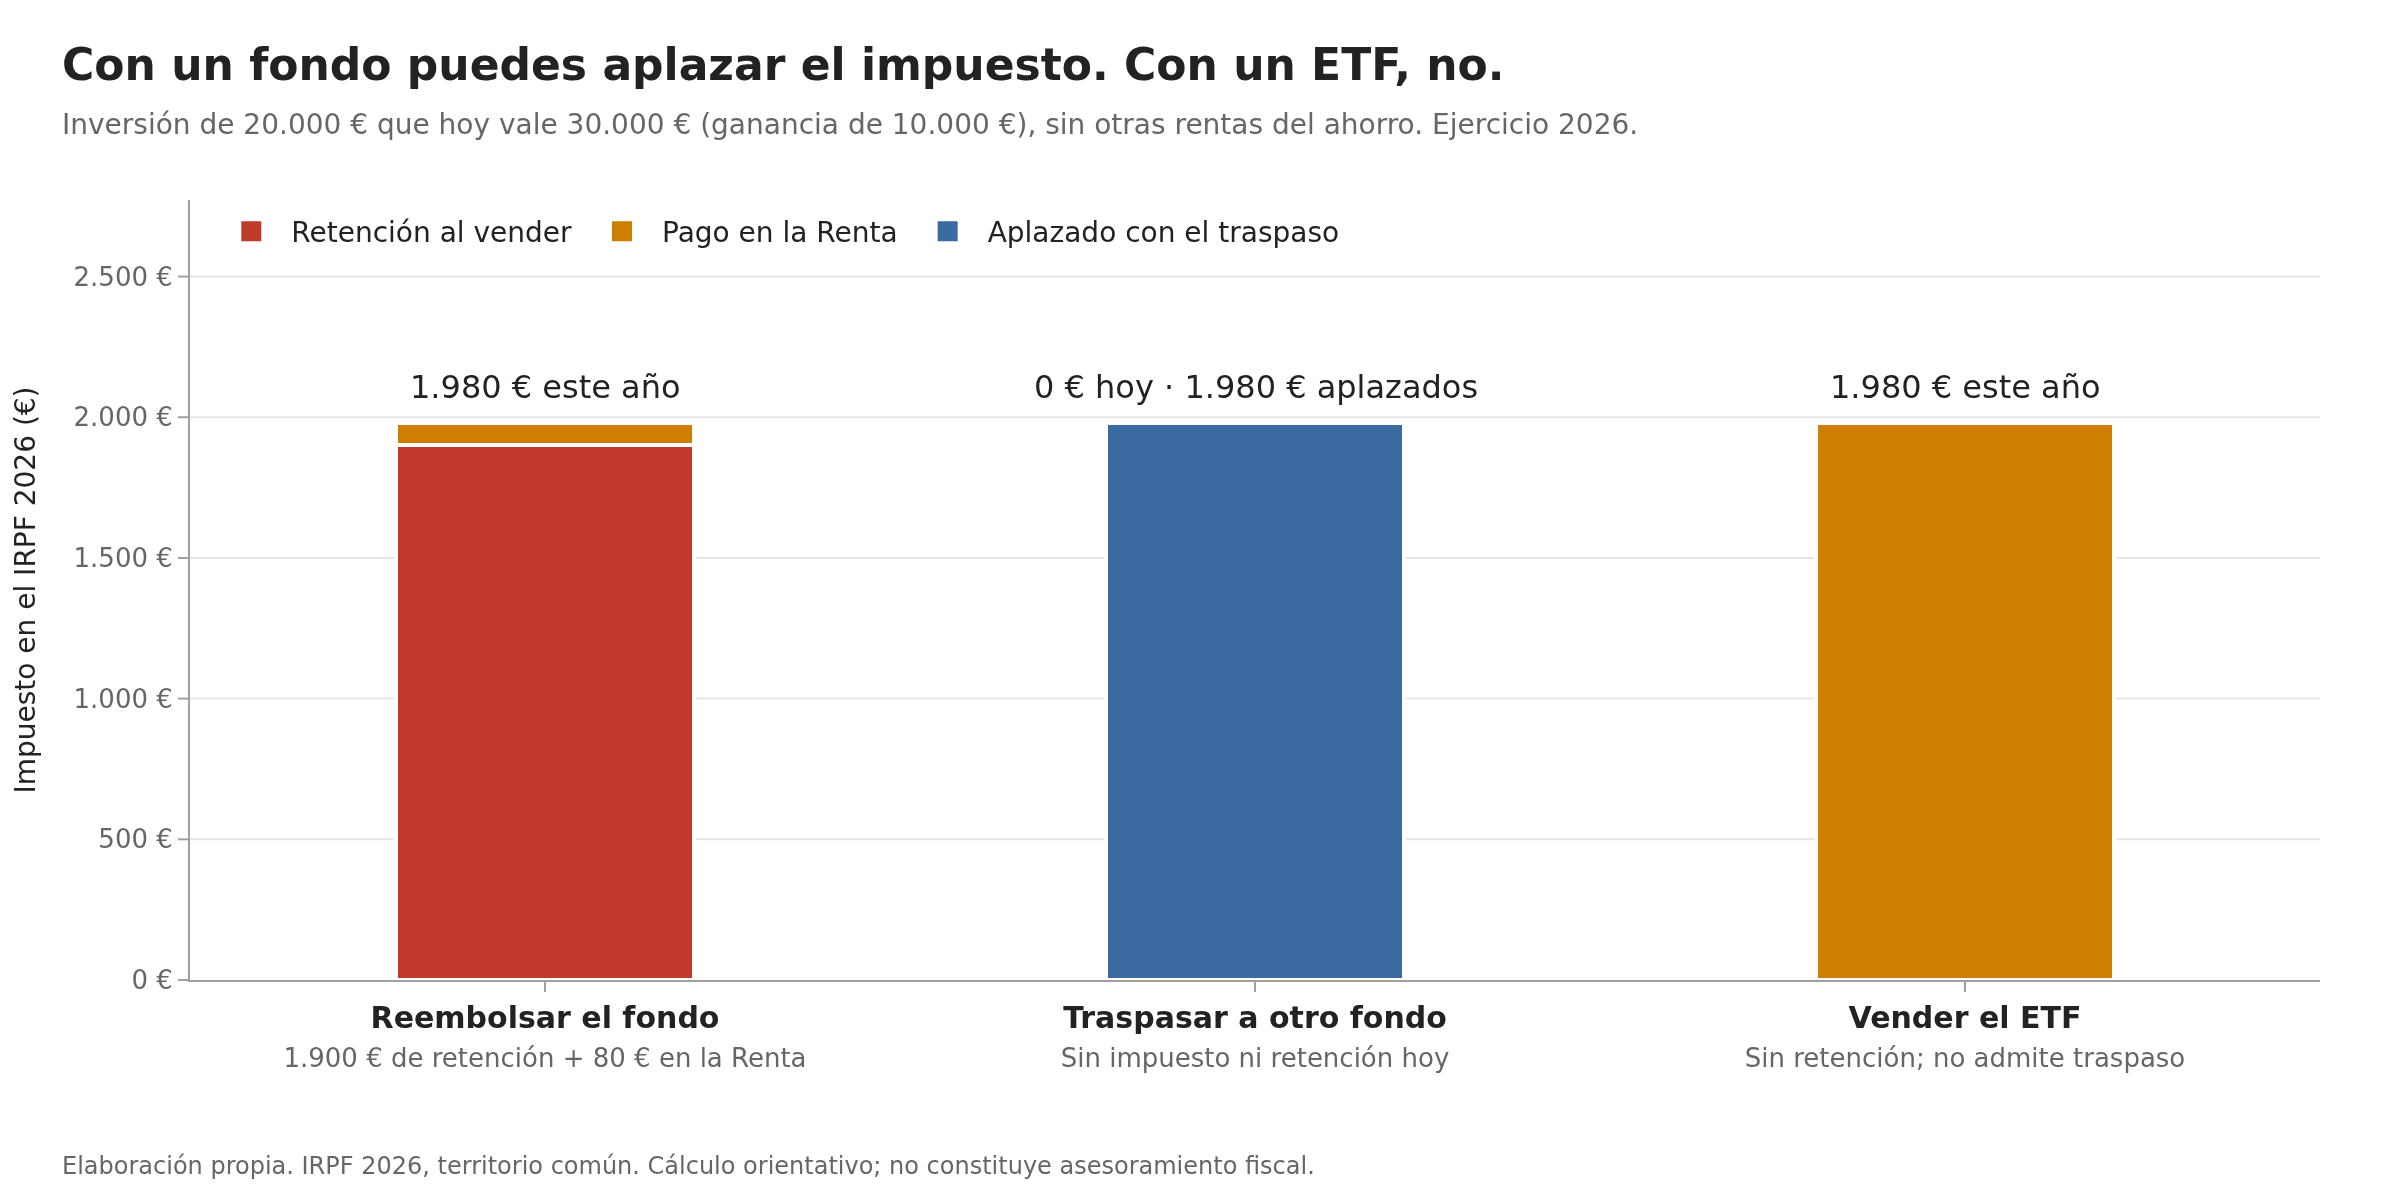
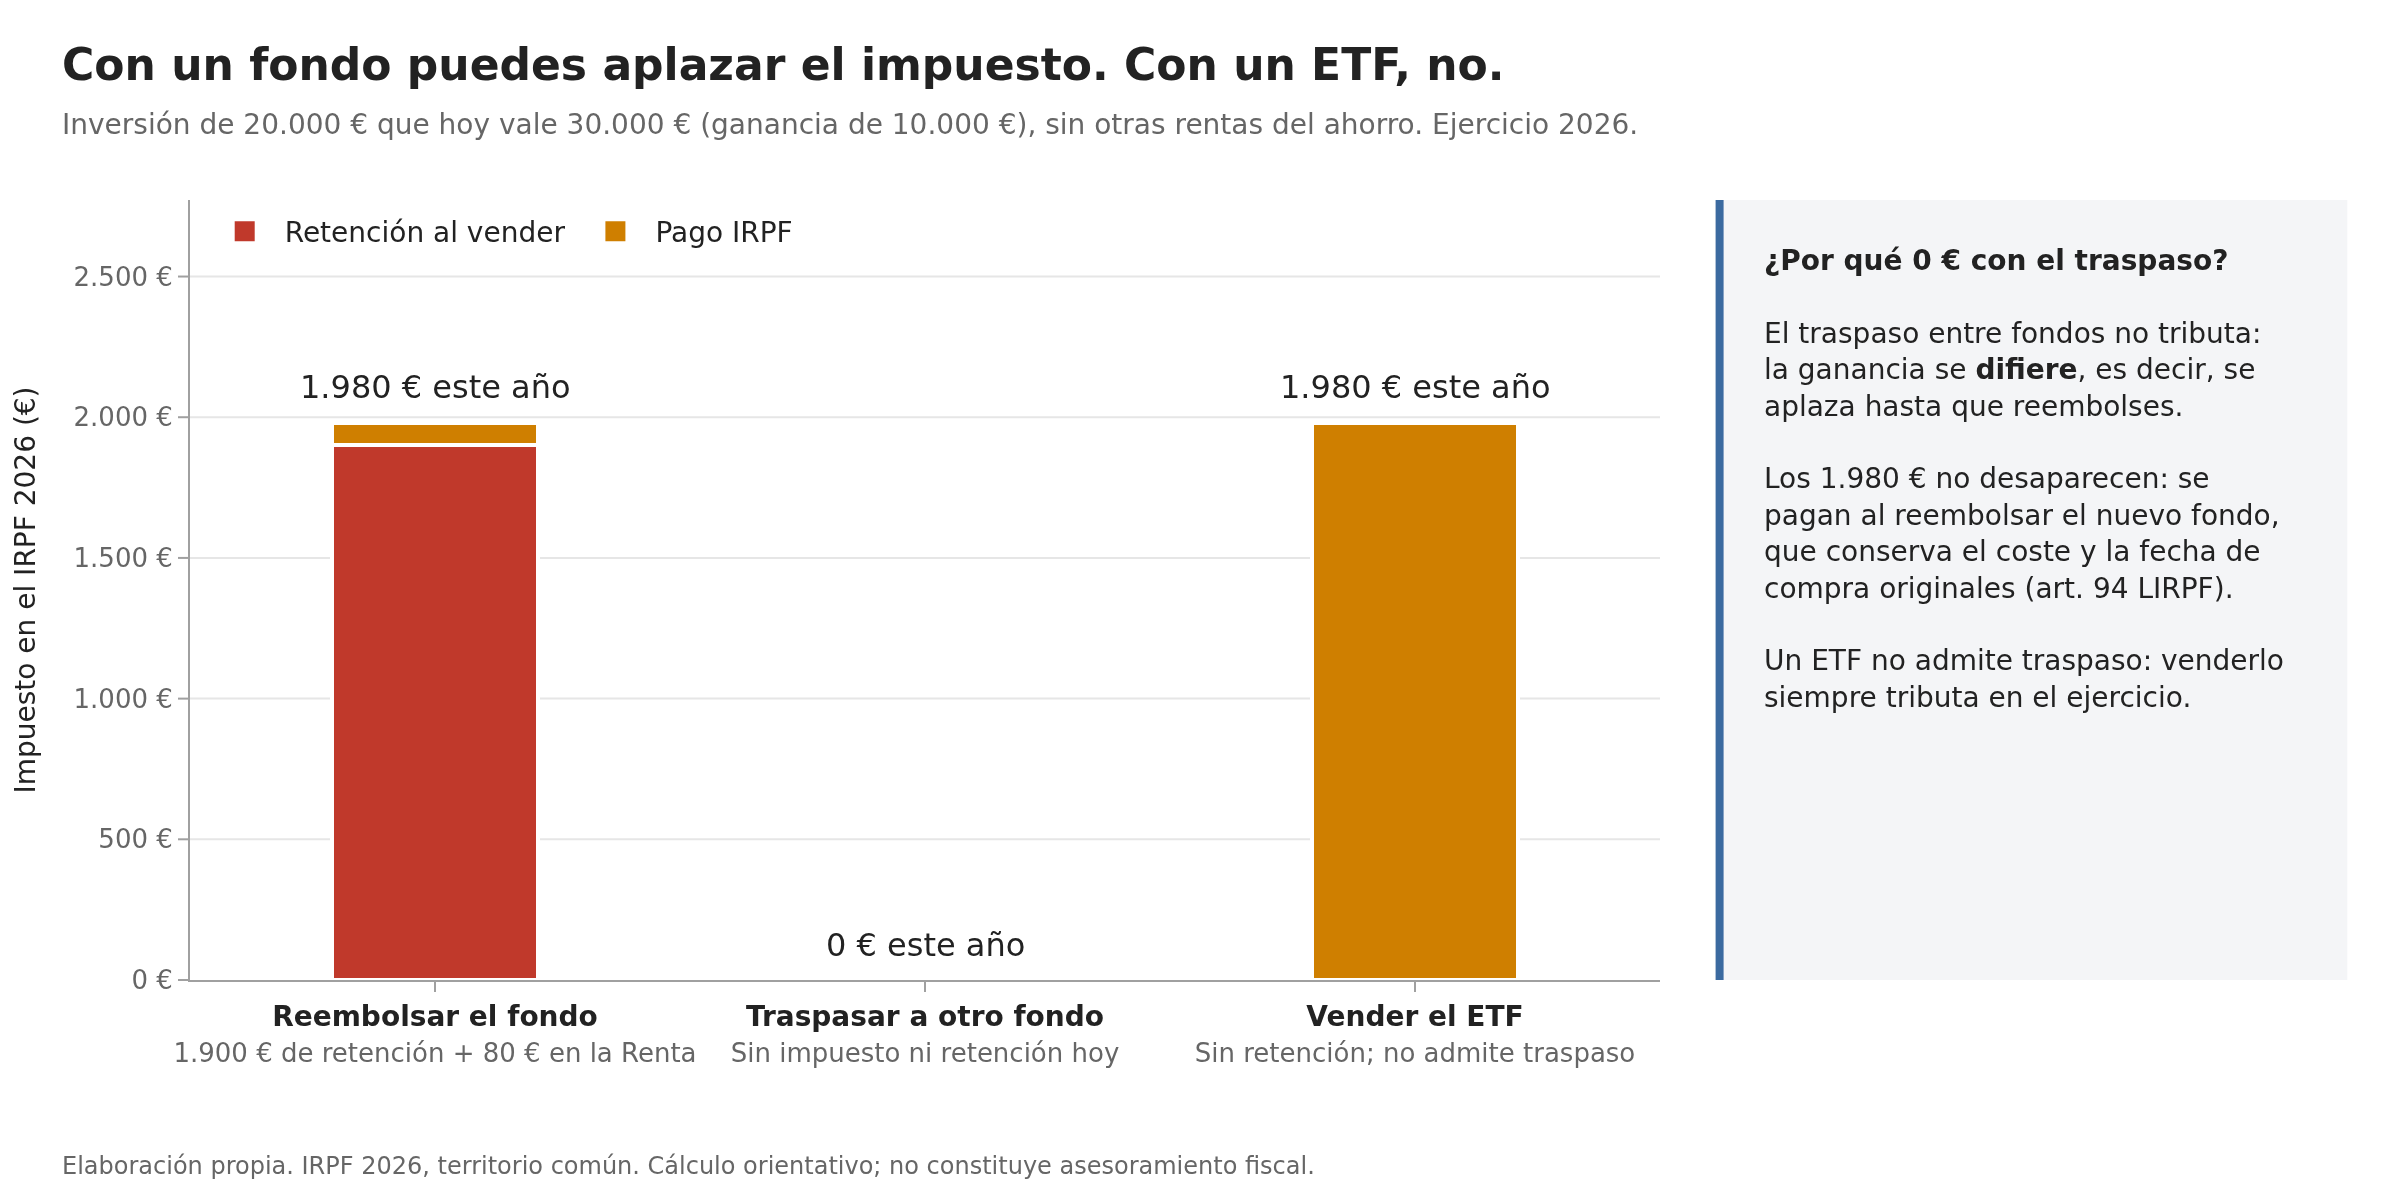
Deja vacía la barra del traspaso y explica el diferimiento en un panel lateral

diff --git a/simulador/graficos.py b/simulador/graficos.py
@@ -47,7 +47,8 @@ INFORME_EJES = "#a0a0a0"
 INFORME_REJILLA = "#e6e6e6"
 INFORME_RETENCION = "#c0392b"
 INFORME_RENTA = "#cf7f00"
-INFORME_APLAZADO = "#3b6aa0"
+INFORME_APLAZADO = "#3b6aa0"  # filete del panel del diferimiento
+INFORME_PANEL = "#f4f5f7"
 INFORME_FUENTE = "DejaVu Sans, Liberation Sans, Arial, sans-serif"
 
 PIE = (
@@ -88,18 +89,34 @@ class _Barra:
     detalle: str
     retencion: Decimal
     en_renta: Decimal
-    aplazado: Decimal
     rotulo: str  # cifra encima de la barra
 
     @property
     def total(self) -> Decimal:
-        return self.retencion + self.en_renta + self.aplazado
+        return self.retencion + self.en_renta
+
+
+def texto_diferimiento(impuesto_latente: Decimal) -> str:
+    """Explicación del panel lateral; los saltos de línea son manuales porque Plotly no ajusta texto."""
+    return (
+        "<b>¿Por qué 0 € con el traspaso?</b><br><br>"
+        "El traspaso entre fondos no tributa:<br>"
+        "la ganancia se <b>difiere</b>, es decir, se<br>"
+        "aplaza hasta que reembolses.<br><br>"
+        f"Los {euros(impuesto_latente)} no desaparecen: se<br>"
+        "pagan al reembolsar el nuevo fondo,<br>"
+        "que conserva el coste y la fecha de<br>"
+        "compra originales (art. 94 LIRPF).<br><br>"
+        "Un ETF no admite traspaso: venderlo<br>"
+        "siempre tributa en el ejercicio."
+    )
 
 
 def figura_fondo_frente_a_etf(resultados: Sequence[ResultadoEscenario], descripcion_caso: str) -> go.Figure:
-    """Barras apiladas: qué se paga hoy (retención y Renta) y qué se aplaza en cada escenario.
+    """Barras apiladas con lo que se paga este año en cada escenario.
 
-    Pensado para una venta con ganancia: la retención no supera la cuota y el latente es positivo.
+    La barra del traspaso queda vacía (no se paga nada hoy) y un panel lateral explica el
+    diferimiento con el impuesto latente. Pensado para una venta con ganancia.
     """
     por_escenario = {resultado.escenario: resultado for resultado in resultados}
     reembolso = por_escenario[Escenario.REEMBOLSO_FONDO]
@@ -115,25 +132,10 @@ def figura_fondo_frente_a_etf(resultados: Sequence[ResultadoEscenario], descripc
             f"{euros(reembolso.retencion)} de retención + {euros(reembolso.regularizacion_renta)} en la Renta",
             reembolso.retencion,
             reembolso.regularizacion_renta,
-            cero,
             f"{euros(reembolso.cuota)} este año",
         ),
-        _Barra(
-            "Traspasar a otro fondo",
-            "Sin impuesto ni retención hoy",
-            cero,
-            cero,
-            traspaso.impuesto_latente,
-            f"0 € hoy · {euros(traspaso.impuesto_latente)} aplazados",
-        ),
-        _Barra(
-            "Vender el ETF",
-            "Sin retención; no admite traspaso",
-            cero,
-            etf.cuota,
-            cero,
-            f"{euros(etf.cuota)} este año",
-        ),
+        _Barra("Traspasar a otro fondo", "Sin impuesto ni retención hoy", cero, cero, "0 € este año"),
+        _Barra("Vender el ETF", "Sin retención; no admite traspaso", cero, etf.cuota, f"{euros(etf.cuota)} este año"),
     ]
     # Escenario y, debajo, su detalle en gris, como etiqueta del eje.
     categorias = [
@@ -145,8 +147,7 @@ def figura_fondo_frente_a_etf(resultados: Sequence[ResultadoEscenario], descripc
     figura = go.Figure()
     for nombre, campo, color in [
         ("Retención al vender", "retencion", INFORME_RETENCION),
-        ("Pago en la Renta", "en_renta", INFORME_RENTA),
-        ("Aplazado con el traspaso", "aplazado", INFORME_APLAZADO),
+        ("Pago IRPF", "en_renta", INFORME_RENTA),
     ]:
         figura.add_bar(
             x=categorias,
@@ -167,7 +168,7 @@ def figura_fondo_frente_a_etf(resultados: Sequence[ResultadoEscenario], descripc
             font={"size": 16, "color": INFORME_TEXTO},
         )
 
-    maximo = max(barra.total for barra in barras)
+    # Cabecera y pie, a 24 px del borde izquierdo de la imagen.
     for desde_arriba, texto, fuente in [
         (18, "<b>Con un fondo puedes aplazar el impuesto. Con un ETF, no.</b>", {"size": 22, "color": INFORME_TEXTO}),
         (52, descripcion_caso, {"size": 14, "color": INFORME_TEXTO_SECUNDARIO}),
@@ -176,7 +177,7 @@ def figura_fondo_frente_a_etf(resultados: Sequence[ResultadoEscenario], descripc
         figura.add_annotation(
             xref="paper",
             yref="paper",
-            x=-(90 - 24) / (INFORME_ANCHO - 90 - 40),  # a 24 px del borde izquierdo de la imagen
+            x=_x_informe(24),
             y=_y_informe(desde_arriba),
             xanchor="left",
             yanchor="top",
@@ -186,6 +187,45 @@ def figura_fondo_frente_a_etf(resultados: Sequence[ResultadoEscenario], descripc
             font=fuente,
         )
 
+    # Panel lateral con la explicación del diferimiento: fondo gris claro y filete azul a la izquierda.
+    izquierda, derecha = INFORME_ANCHO - _INFORME_MARGEN_DERECHO + 30, INFORME_ANCHO - 24
+    arriba, abajo = _INFORME_MARGEN_SUPERIOR, INFORME_ALTO - _INFORME_MARGEN_INFERIOR
+    figura.add_shape(
+        type="rect",
+        xref="paper",
+        yref="paper",
+        x0=_x_informe(izquierda),
+        x1=_x_informe(derecha),
+        y0=_y_informe(abajo),
+        y1=_y_informe(arriba),
+        fillcolor=INFORME_PANEL,
+        line={"width": 0},
+        layer="below",
+    )
+    figura.add_shape(
+        type="line",
+        xref="paper",
+        yref="paper",
+        x0=_x_informe(izquierda),
+        x1=_x_informe(izquierda),
+        y0=_y_informe(abajo),
+        y1=_y_informe(arriba),
+        line={"color": INFORME_APLAZADO, "width": 4},
+    )
+    figura.add_annotation(
+        xref="paper",
+        yref="paper",
+        x=_x_informe(izquierda + 20),
+        y=_y_informe(arriba + 20),
+        xanchor="left",
+        yanchor="top",
+        align="left",
+        showarrow=False,
+        text=texto_diferimiento(traspaso.impuesto_latente),
+        font={"size": 14, "color": INFORME_TEXTO},
+    )
+
+    maximo = max(barra.total for barra in barras)
     eje = {"showline": True, "linecolor": INFORME_EJES, "linewidth": 1, "ticks": "outside", "tickcolor": INFORME_EJES}
     figura.update_layout(
         width=INFORME_ANCHO,
@@ -195,7 +235,12 @@ def figura_fondo_frente_a_etf(resultados: Sequence[ResultadoEscenario], descripc
         paper_bgcolor=INFORME_FONDO,
         plot_bgcolor=INFORME_FONDO,
         font={"family": INFORME_FUENTE, "color": INFORME_TEXTO, "size": 14},
-        margin={"l": 90, "r": 40, "t": _INFORME_MARGEN_SUPERIOR, "b": _INFORME_MARGEN_INFERIOR},
+        margin={
+            "l": _INFORME_MARGEN_IZQUIERDO,
+            "r": _INFORME_MARGEN_DERECHO,
+            "t": _INFORME_MARGEN_SUPERIOR,
+            "b": _INFORME_MARGEN_INFERIOR,
+        },
         legend={
             "orientation": "h",
             "x": 0.01,
@@ -206,7 +251,7 @@ def figura_fondo_frente_a_etf(resultados: Sequence[ResultadoEscenario], descripc
             "font": {"size": 14, "color": INFORME_TEXTO},
             "traceorder": "normal",
         },
-        xaxis={**eje, "tickfont": {"size": 15, "color": INFORME_TEXTO}},
+        xaxis={**eje, "tickfont": {"size": 14, "color": INFORME_TEXTO}},
         yaxis={
             **eje,
             "title": {"text": f"Impuesto en el IRPF {normativa.EJERCICIO} (€)", "font": {"size": 14}},
@@ -221,10 +266,18 @@ def figura_fondo_frente_a_etf(resultados: Sequence[ResultadoEscenario], descripc
     return figura
 
 
-# Geometría del informe (px). El área del gráfico va de _INFORME_MARGEN_SUPERIOR a
-# INFORME_ALTO − _INFORME_MARGEN_INFERIOR.
+# Geometría del informe (px). El área del gráfico va de los márgenes hacia dentro; a la
+# derecha queda sitio para el panel del diferimiento.
+_INFORME_MARGEN_IZQUIERDO = 90
+_INFORME_MARGEN_DERECHO = 370
 _INFORME_MARGEN_SUPERIOR = 100
 _INFORME_MARGEN_INFERIOR = 110
+
+
+def _x_informe(desde_izquierda_px: float) -> float:
+    """Convierte una distancia en píxeles desde el borde izquierdo a coordenada `paper` de Plotly."""
+    ancho_grafico = INFORME_ANCHO - _INFORME_MARGEN_IZQUIERDO - _INFORME_MARGEN_DERECHO
+    return (desde_izquierda_px - _INFORME_MARGEN_IZQUIERDO) / ancho_grafico
 
 
 def _y_informe(desde_arriba_px: float) -> float:

diff --git a/tests/test_graficos.py b/tests/test_graficos.py
@@ -13,6 +13,7 @@ from simulador.graficos import (
     figura_fondo_frente_a_etf,
     figura_rentabilidad,
     pasos_cascada,
+    texto_diferimiento,
 )
 from simulador.lotes import Lote, TipoProducto, Venta
 from simulador.rentabilidad import rentabilidad
@@ -31,16 +32,18 @@ def test_euros_sin_centimos(importe, texto):
 def test_figura_del_caso_b_dibuja_las_cifras_del_simulador():
     figura = figura_fondo_frente_a_etf(caso_b(), DESCRIPCION_CASO_B)
 
-    # Orden de las barras: reembolso, traspaso, venta de ETF.
+    # Orden de las barras: reembolso, traspaso (vacía: hoy no se paga nada), venta de ETF.
     series = {traza.name: list(traza.y) for traza in figura.data}
     assert series == {
         "Retención al vender": [D("1900"), D("0"), D("0")],
-        "Pago en la Renta": [D("80"), D("0"), D("1980")],
-        "Aplazado con el traspaso": [D("0"), D("1980"), D("0")],
+        "Pago IRPF": [D("80"), D("0"), D("1980")],
     }
     textos = [anotacion.text for anotacion in figura.layout.annotations]
     assert textos.count("1.980 € este año") == 2
-    assert "0 € hoy · 1.980 € aplazados" in textos
+    assert "0 € este año" in textos
+    # El panel lateral explica el diferimiento con el impuesto latente del simulador.
+    assert texto_diferimiento(D("1980")) in textos
+    assert "Los 1.980 € no desaparecen" in texto_diferimiento(D("1980"))
     assert PIE in textos
     assert "no constituye asesoramiento fiscal" in PIE
 
